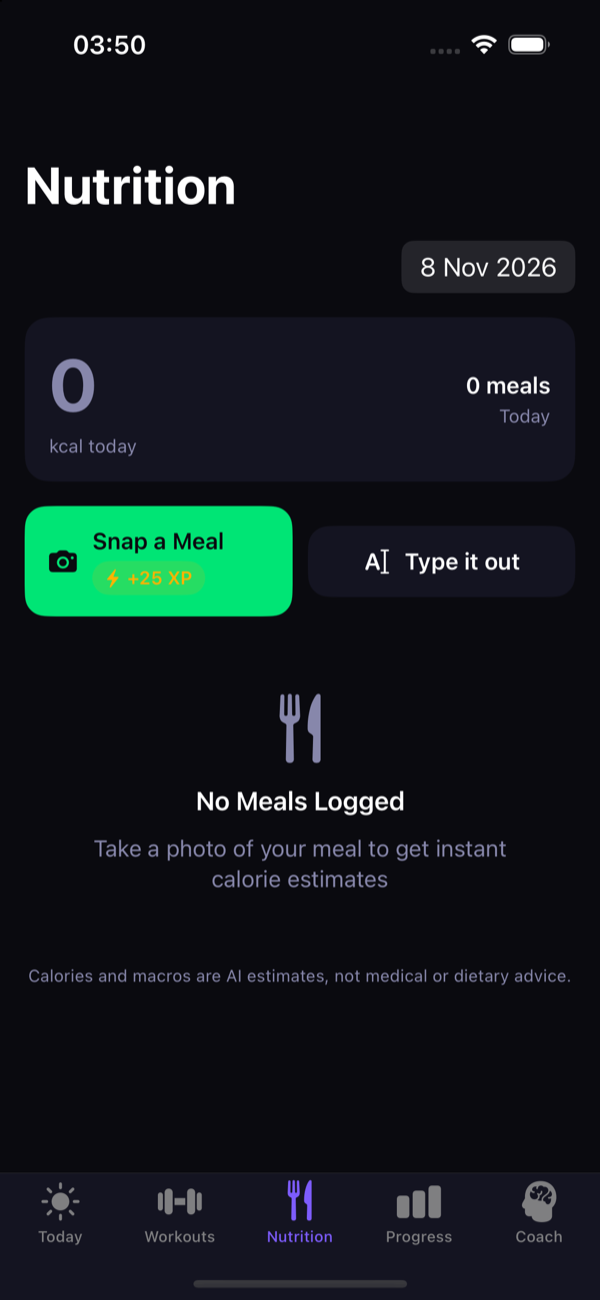
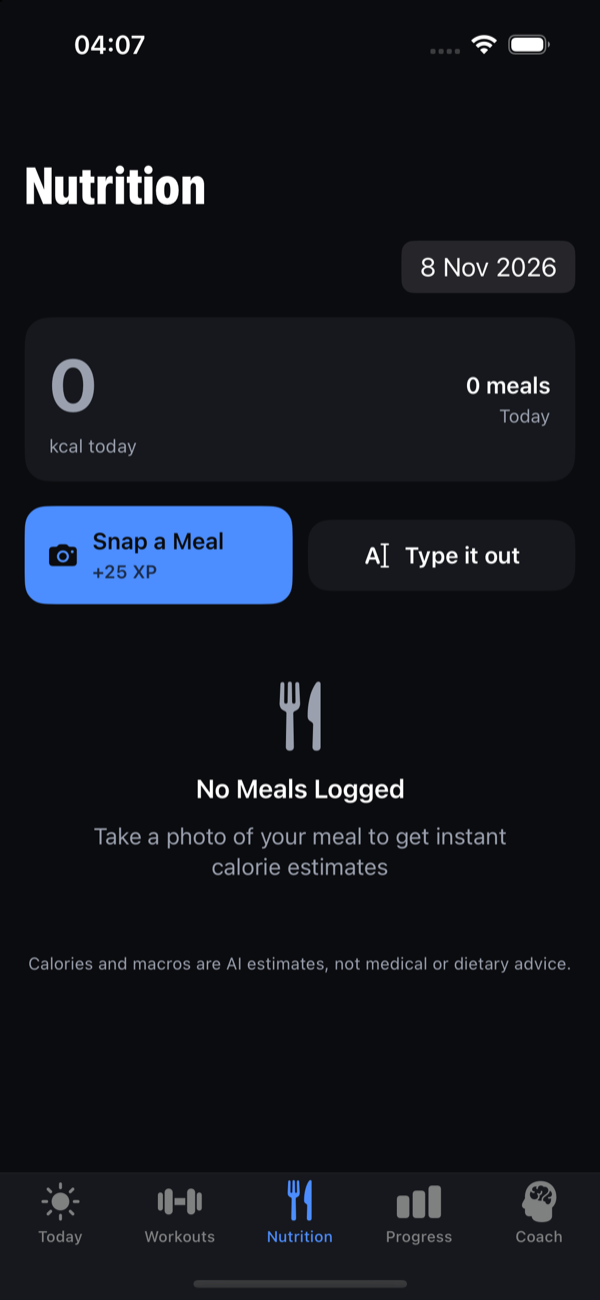
Retake README screenshots for the redesign, dark and light

diff --git a/README.md b/README.md
@@ -16,6 +16,8 @@ Also: morning and evening check-ins, XP for logging, a local notification at 8pm
 
 ## Screenshots
 
+Dark mode:
+
 <p>
   <img src="docs/screenshots/today.png" width="190" alt="Today tab with the no Health data notice">
   <img src="docs/screenshots/workouts.png" width="190" alt="Workouts tab with muscle recovery">
@@ -28,7 +30,16 @@ Also: morning and evening check-ins, XP for logging, a local notification at 8pm
   <img src="docs/screenshots/settings.png" width="190" alt="Settings with the Gemini sharing switch">
 </p>
 
-Taken on the iOS 18.0 simulator, so there is no Health data (rings and recovery numbers read 0 or "No data") and no API key. The Workouts, Progress and Muscles Worked screens show one logged gym workout: bench press, pull-up and back squat, 3 sets each. The design is not final.
+Light mode (the app follows the system setting):
+
+<p>
+  <img src="docs/screenshots/today-light.png" width="190" alt="Today tab, light mode">
+  <img src="docs/screenshots/progress-light.png" width="190" alt="Progress tab, light mode">
+  <img src="docs/screenshots/coach-light.png" width="190" alt="Coach tab, light mode">
+  <img src="docs/screenshots/muscles-worked-light.png" width="190" alt="Muscles Worked heatmap, light mode">
+</p>
+
+Taken on the iOS 18.0 simulator, so there is no Health data (rings and recovery numbers read 0 or "No data") and no API key. The Workouts, Progress and Muscles Worked screens show one logged gym workout: bench press, pull-up and back squat, 3 sets each. The body figure on the heatmap is placeholder art built from simple shapes.
 
 ## AI services
 
@@ -74,7 +85,7 @@ Add your name and API key in Settings on first launch.
 - No XP for completing the daily plan, closing rings or logging sleep.
 - The calorie and protein targets are rough rules (weight x 33 kcal, weight x 1.8 g), not a validated formula, and are 0 when Health has no weight.
 - The sleep score is a simple home-made formula from sleep hours and HRV.
-- Seen on a simulator screen (iOS 18.0): app icon, first-run Health, notification and calendar prompts, the check-in with Health denied, the Today notice, the Workouts muscle recovery list, Nutrition, Progress, the Muscles Worked heatmap, Coach (the banner shows No Data until there is a sleep or HRV reading) and Settings (including the Gemini sharing switch). Not seen: any Gemini or Ollama reply.
+- Seen on a simulator screen (iOS 18.0): app icon, first-run Health, notification and calendar prompts, the check-in with Health denied, the Today notice, the Workouts muscle recovery list, Nutrition, Progress, the Muscles Worked heatmap, Coach (the banner shows No Data until there is a sleep or HRV reading) and Settings (including the Gemini sharing switch). Both light and dark mode were checked on Today, Progress, Muscles Worked, Coach and Settings; the other screens (check-ins, workout logging sheets, camera) were not checked in light mode. Not seen: any Gemini or Ollama reply.
 - Not yet done for an App Store release: a hosted privacy policy URL (the text is in PRIVACY.md), a support URL (the GitHub issues page can serve), App Store listing and TestFlight setup (needs an Apple Developer account and a team ID).
 
 History and design notes are in [DEVLOG.md](DEVLOG.md).

diff --git a/DEVLOG.md b/DEVLOG.md
@@ -263,6 +263,7 @@ The reference app used a fully anatomical illustration with separately-colored q
 - Simulator run with Health denied showed zeros as real values and a Low recovery score. Fixed: No data, Unknown score, neutral advice. Also fixed "How was today, ?" for a user with no name.
 - Health permission list was missing exercise minutes (read as 0 even with data); added it and a test.
 - Found from simulator screenshots and fixed: the Nutrition Snap a Meal button wrapped its XP label one character per line; the Coach banner said Measured with no data (now No Data until a sleep or HRV reading exists). Both checked on screen, no unit test.
+- Redesign (bold athletic, one blue accent, light and dark following the system): adaptive color tokens in `ApexColor`, heavy condensed titles and numbers, tracked uppercase labels, full-width section cards, blue heatmap scale, Snap a Meal uses the accent. Checked on screen in both modes; the muscle figure is still placeholder art.
 - 24 unit tests on the logic layer. Still unverified: anything needing HealthKit data, a key, or a device.
 
 ---
